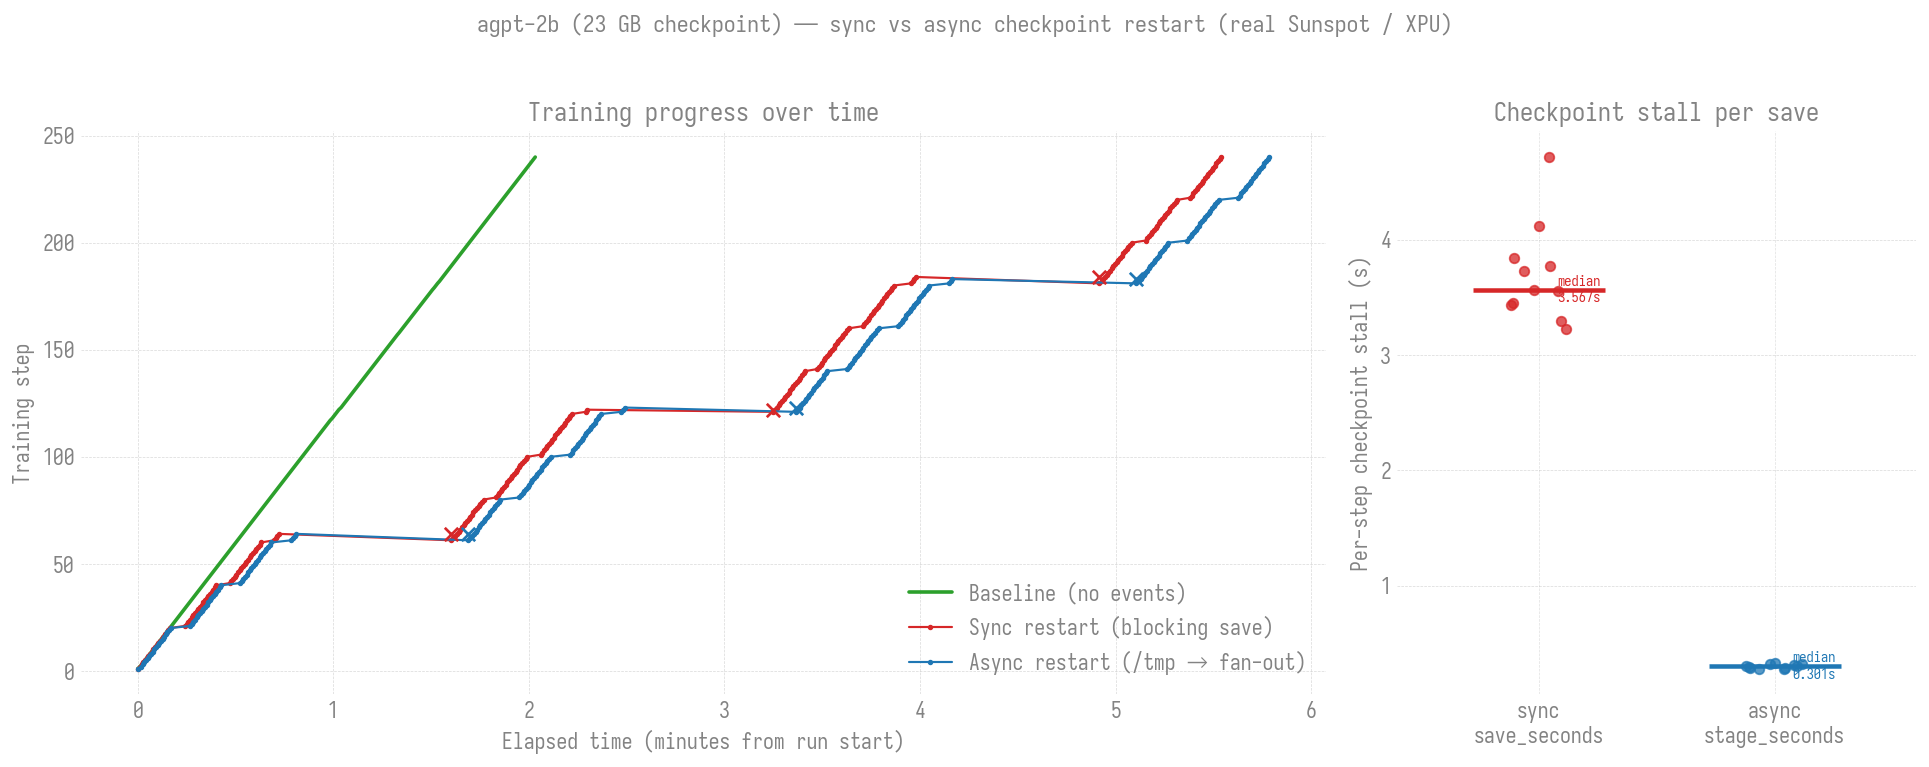
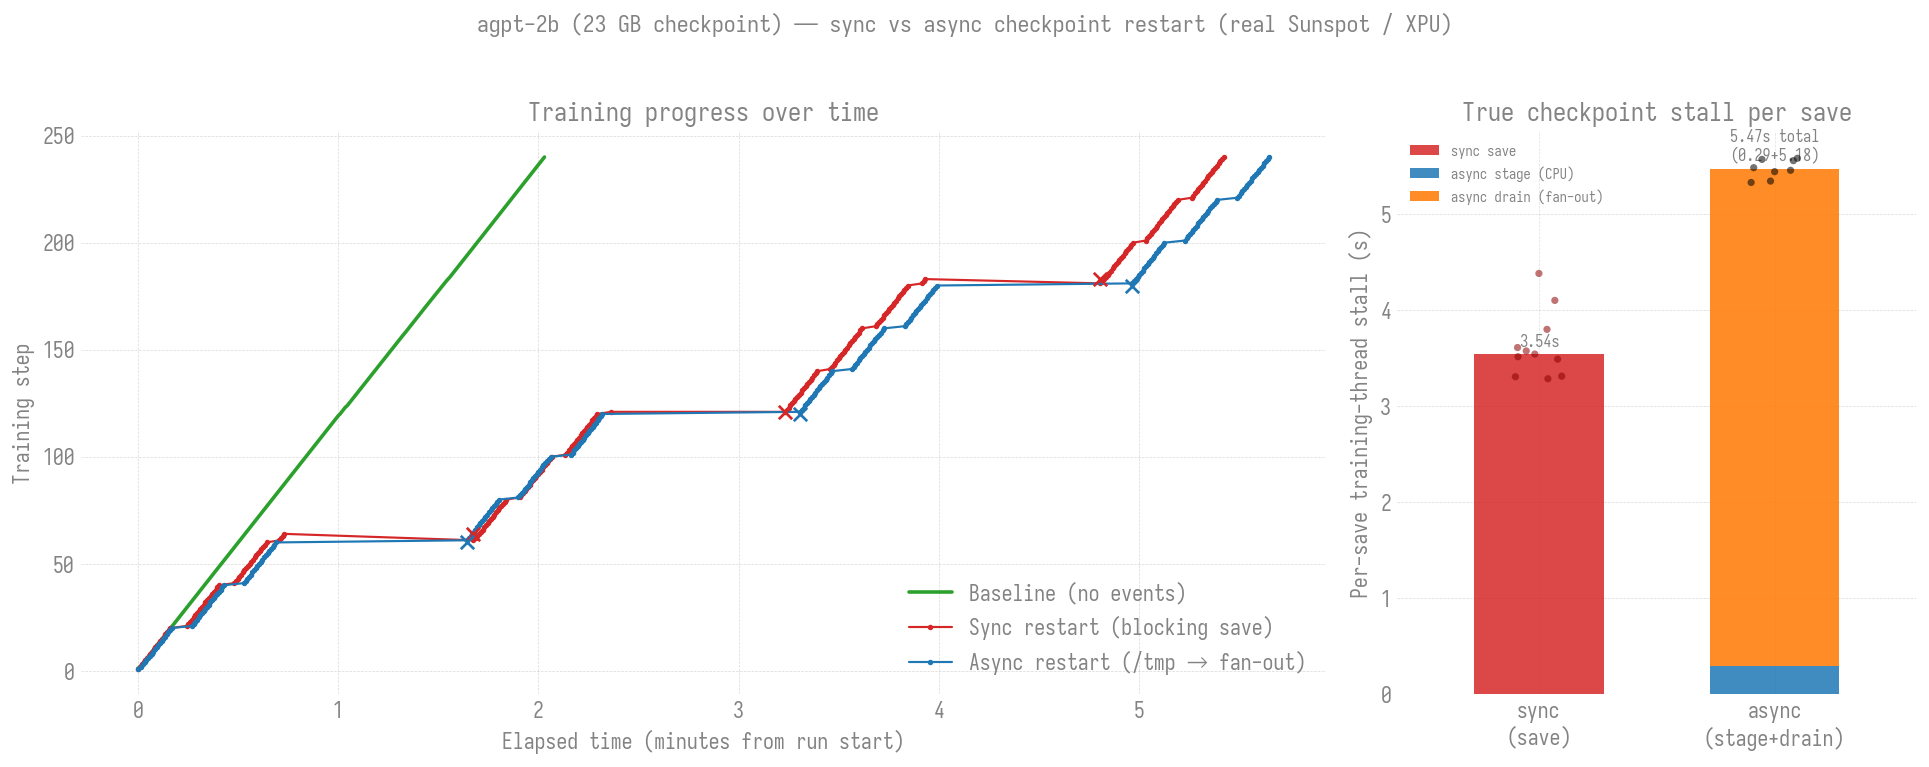
docs+expt(checkpoint-restart): drain-timed agpt-2b rerun + disk-safe experiment
Regenerate the agpt-2b figure from a clean 3-phase run (Sunspot job 12471769)
with train/ckpt_drain_seconds now measured explicitly, confirming the earlier
inter-step-gap diagnosis: sync save 3.54 s vs async stage 0.30 s + drain 5.18 s
= 5.47 s true per-save stall (~1.5x sync). Symmetric 3-tooth sawtooths; plot's
right panel shows the stacked async (stage+drain) bar. Refresh docs + README
numbers and the source job id.

Also make restart_experiment_2b.pbs disk-safe: a background pruner keeps only
the 2 newest checkpoints per phase and the phase dir is reclaimed at the end.
The prior run (12471768) crashed mid-async on "Disk quota exceeded" because it
retained every 23 GB checkpoint (~500 GB/run) and filled the shared FS.

diff --git a/docs/guides/checkpoint-restart.md b/docs/guides/checkpoint-restart.md
@@ -60,7 +60,7 @@ shared FS.
     large checkpoint sizes it dominates — the true per-save stall is
     `stage + drain`, **not** `stage` alone. See the [agpt-2b
     measurements](#at-realistic-scale-agpt-2b-a-23-gb-checkpoint) below, where
-    the drain (5.45 s) is ~18× the stage (0.30 s). Do not read
+    the drain (5.18 s) is ~17× the stage (0.30 s). Do not read
     `ckpt_stage_seconds` as the cost of an async save.
 
 !!! warning "Node-local staging is not durable"
@@ -155,14 +155,14 @@ every tooth loses at most one save interval:
 | | Baseline | Sync restart | Async restart |
 |---|---:|---:|---:|
 | Steps | 240 | 240 | 240 |
-| Wall-clock | **2.03 min** | **5.54 min** | **5.79 min** |
+| Wall-clock | **2.03 min** | **5.42 min** | **5.65 min** |
 | Failures | 0 | 3 | 3 |
 
 !!! warning "Async was **slower** here — and why the naive metric hides it"
     The first cut of this experiment looked like a landslide for async: the
     logged `ckpt_stage_seconds` (0.30 s) was ~12× smaller than the sync
-    `ckpt_save_seconds` (3.57 s). But async's **total wall-clock was higher**
-    (5.79 vs 5.54 min) — even though *every logged metric* favored it
+    `ckpt_save_seconds` (3.54 s). But async's **total wall-clock was higher**
+    (5.65 vs 5.42 min) — even though *every logged metric* favored it
     (`restart_seconds` and per-step `train/dt` were both marginally lower for
     async). That paradox was the tell: the cost was real but **untimed**.
 
@@ -172,25 +172,25 @@ only the save step. The *drain* — the fan-out of the full 23 GB from node-loca
 `/tmp` to shared FS — is a **blocking foreground copy** that runs at the start
 of the *next* step. It lands between `train/dt` windows and is separate from
 `ckpt_stage_seconds`, so originally **no metric captured it**. Measuring the
-inter-step wall-clock gap directly revealed it; `train/ckpt_drain_seconds` now
-records it explicitly.
+inter-step wall-clock gap first revealed it; `train/ckpt_drain_seconds` now
+records it explicitly (the numbers below are from that metric).
 
 The honest per-save stall on the training thread, at 23 GB:
 
 | | sync | async |
 |---|---:|---:|
 | stage (blocks save step) | — | `ckpt_stage_seconds` **0.30 s** |
-| drain / write (blocks next step) | — | `ckpt_drain_seconds` **5.45 s** |
-| blocking write (all at once) | `ckpt_save_seconds` **3.57 s** | — |
-| **true total per save** | **≈3.6 s** | **≈5.75 s** |
+| drain / write (blocks next step) | — | `ckpt_drain_seconds` **5.18 s** |
+| blocking write (all at once) | `ckpt_save_seconds` **3.54 s** | — |
+| **true total per save** | **≈3.54 s** | **≈5.47 s** |
 
-- **Async's true stall is ~1.6× *larger* than sync's here, not 12× smaller.**
+- **Async's true stall is ~1.5× *larger* than sync's here, not 12× smaller.**
   It does roughly double the I/O — write 23 GB to `/tmp`, then read it back and
   write 23 GB to shared FS — and only ~1 training step (~0.45 s) overlaps the
   `/tmp` write. The expensive shared-FS write is *foreground*, so `/tmp`
   staging doesn't actually move it off the critical path in this
   implementation.
-- **Restart cost ≈ 38–43 s** (both sync and async), dominated by the 23 GB
+- **Restart cost ≈ 37–43 s** (both sync and async), dominated by the 23 GB
   `dcp.load` + distributed init — ~4× the debug model's ~10 s, as expected when
   the checkpoint is ~40× larger.
 
@@ -243,7 +243,7 @@ restart — e.g. pause/resume or in-place elastic recovery (TorchFT-style) —
 are separate systems not integrated into ezpz and are out of scope here.
 
 Numbers above are from Sunspot: debug-model runs (job `12471687`) and the
-agpt-2b / 23 GB run (job `12471756`), both 2 nodes / 24 XPU ranks. Absolute
+agpt-2b / 23 GB run (job `12471769`), both 2 nodes / 24 XPU ranks. Absolute
 `restart_seconds` grows with model size and node count (larger `dcp.load`,
 longer init) — the debug→agpt-2b jump (≈10 s → ≈40 s) shows exactly that; the
 *mechanism* is parallelism-agnostic since DCP is sharded.

diff --git a/experiments/checkpoint-restart/README.md b/experiments/checkpoint-restart/README.md
@@ -91,18 +91,21 @@ steps 60/120/180) so each restart phase produces a clean, evenly-spaced
 
 ![agpt-2b sync vs async](agpt2b_restart.png)
 
-Real Sunspot numbers (job `12471756`, 2 nodes / 24 XPU ranks, `tp=2`):
+Real Sunspot numbers (job `12471769`, 2 nodes / 24 XPU ranks, `tp=2`):
 
 | | Baseline | Sync restart | Async restart |
 |---|---:|---:|---:|
 | Steps | 240 | 240 | 240 |
-| Wall-clock | 2.03 min | 5.54 min | 5.79 min |
-| Per-save stall (median) | — | `ckpt_save_seconds` **3.567 s** | `ckpt_stage_seconds` **0.301 s** |
+| Wall-clock | 2.03 min | 5.42 min | 5.65 min |
+| True per-save stall (median) | — | `ckpt_save_seconds` **3.54 s** | `ckpt_stage_seconds` **0.30 s** + `ckpt_drain_seconds` **5.18 s** = **5.47 s** |
 
-The headline: at 23 GB the async **per-step save stall is ≈12× smaller** (0.301 s
-vs 3.567 s). Restart cost is ≈38–43 s for both (dominated by the 23 GB
-`dcp.load` + init). Async's win is on save stall, not total wall-clock at this
-step count — see `docs/guides/checkpoint-restart.md` for the full nuance.
+The **counterintuitive** headline: at 23 GB async is *slower*, not faster. The
+cheap `ckpt_stage_seconds` (0.30 s) is only half the story — the blocking
+`/tmp`→shared-FS fan-out (`ckpt_drain_seconds` ≈ 5.18 s) is the expensive half
+and was originally untimed. True per-save stall is **stage + drain ≈ 5.47 s vs
+sync's 3.54 s (~1.5× larger)**. Restart cost is ≈37–43 s for both (dominated by
+the 23 GB `dcp.load` + init). See `docs/guides/checkpoint-restart.md` for the
+full accounting and when async *does* pay off (background the drain).
 
 ```bash
 qsub restart_experiment_2b.pbs      # 2 nodes, 3 phases

diff --git a/experiments/checkpoint-restart/agpt2b_restart_report.md b/experiments/checkpoint-restart/agpt2b_restart_report.md
@@ -1,16 +1,21 @@
 # agpt-2b checkpoint-restart: sync vs async (real Sunspot)
 
 **Baseline:** 240 steps in 2.03 min.
-**Sync restart:** reached step 240 in 5.54 min across 3 restart(s).
-**Async restart:** reached step 240 in 5.79 min across 3 restart(s).
+**Sync restart:** reached step 240 in 5.42 min across 3 restart(s).
+**Async restart:** reached step 240 in 5.65 min across 3 restart(s).
 
-**Per-step save stall (median):** sync `ckpt_save_seconds`=3.567s (n=11) vs async `ckpt_stage_seconds`=0.301s (n=11) — 11.9x less stall.
+**Per-save training-thread stall (median):**
+
+- sync `ckpt_save_seconds` = **3.543s** (n=11) — blocking write of the full checkpoint.
+- async `ckpt_stage_seconds` = **0.295s** (n=8) — CPU stage only (the cheap half).
+- async `ckpt_drain_seconds` = **5.175s** (n=8) — blocking /tmp→shared-FS fan-out at the next step (previously untimed).
+- async TRUE total (stage+drain) = **5.470s** — 1.54x the sync stall (async is SLOWER here).
 
 | phase | # | resume@step | lost steps | restart_seconds |
 |-------|---|-------------|-----------|-----------------|
-| sync | 1 | 61 | 3 | 39.21 |
-| sync | 2 | 121 | 1 | 43.35 |
-| sync | 3 | 181 | 3 | 43.03 |
-| async | 1 | 61 | 3 | 37.95 |
-| async | 2 | 121 | 2 | 37.86 |
-| async | 3 | 181 | 2 | 41.68 |
+| sync | 1 | 61 | 3 | 43.21 |
+| sync | 2 | 121 | 0 | 39.08 |
+| sync | 3 | 181 | 2 | 39.13 |
+| async | 1 | 61 | 0 | 37.48 |
+| async | 2 | 121 | 0 | 39.58 |
+| async | 3 | 181 | 0 | 38.64 |
